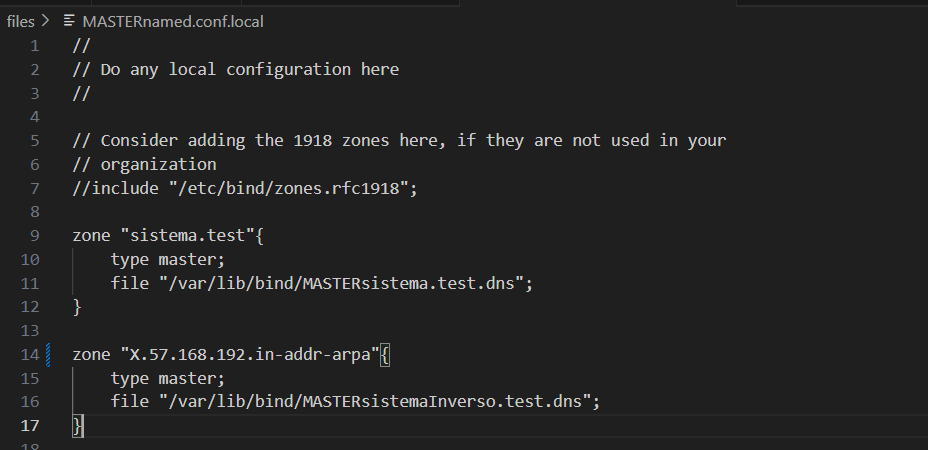
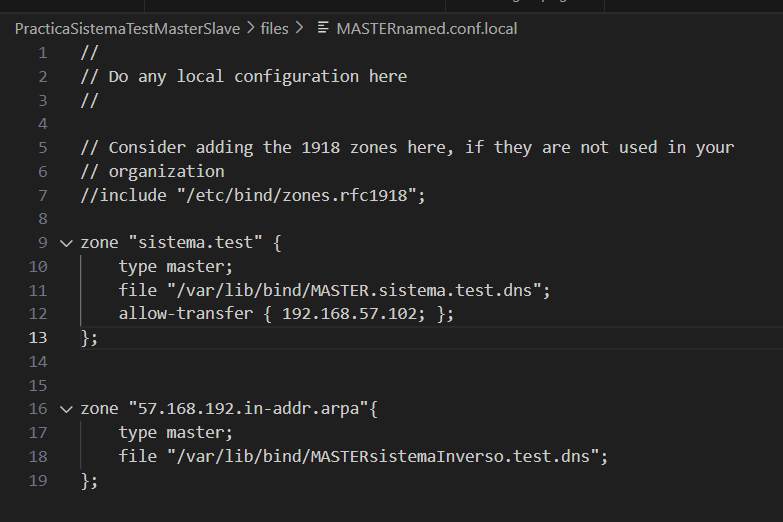
Completamos el archivo README, con las fotos actualizadas y hacemos el commit final

Changed region(s): [[0.0, 0.0311, 0.9502, 0.9644], [0.0, 0.9956, 0.0613, 1.0]]

diff --git a/README.md b/README.md
@@ -1,20 +1,36 @@
 # PracticaSistemaTestMasterSlave
 Practica de despliegue sobre un servidor dns
 
-1.Creamos la estructura de las maquinas en el archivo de configuración de Vagrantfile
-![alt text](/images/image.png)
+1. Creamos la estructura de las maquinas en el archivo de configuración de Vagrantfile
+![alt text](/PracticaSistemaTestMasterSlave/images/image.png)
 
 
-2.Sacamos los archivos necesarios de la maquina tierra a vagrant y creamos una carpeta file con los archivos
-![alt text](/images/image1.png)
+2. Sacamos los archivos necesarios de la maquina tierra a vagrant y creamos una carpeta file con los archivos
+![alt text](/PracticaSistemaTestMasterSlave/images/image1.png)
 
 
-3.Configuramos los archivos que hemos sacado a vagrant anteriormente y los añadimos a la configuracion de las maquinas para  que se puedan copiar y ejecutar correctamente, cambiamos la configuración para que solo se escuche por ipv4, configuramos las acl confiables, configuramos las zonas de la maquina esclava y la maestra, configuramos los dos archivos del servidor
+3. Configuramos los archivos que hemos sacado a vagrant anteriormente
 
-![alt text](/images/image3.png)
-![alt text](/images/image4.png)
-![alt text](/images/images5.png)
-![alt text](/images/image6.png)
-![alt text](/images/image7.png)
-![alt text](/images/image8.png)
-![alt text](/images/image9.png)
+    -Añadimos la configuración necesaria a el archivo vagrantfile para que los archivos que hemos modificado se copien tanto en la maquina  maestro como en la maquina esclava
+ ![alt text](/PracticaSistemaTestMasterSlave/images/image3.png)   
+
+
+    -Añadimos en el archivo named la configuración para que se escuche por ipv4
+![alt text](/PracticaSistemaTestMasterSlave/images/image4.png)
+
+
+    -Añadimos las acl confiables y le decimos que permitimos  la transferencia de archivos de esas acl y además le decimos que no permitimos ipv6
+![alt text](/PracticaSistemaTestMasterSlave/images/image5.png)
+
+
+    -Añadimos las zonas tanto de MASTER como de ESCLAVO
+![alt text](/PracticaSistemaTestMasterSlave/images/image6.png)
+![alt text](/PracticaSistemaTestMasterSlave/images/image7.png)
+
+
+    -Configuramos las zonas tanto la directa como la inversa del servidor
+![alt text](/PracticaSistemaTestMasterSlave/images/image8.png)
+![alt text](/PracticaSistemaTestMasterSlave/images/image9.png)
+
+
+4. Una vez comprobado todos los archivos y hechas las pruebas correspondientes para ver que el servidor funciona correctamente hacemos el commit final y subimos los cambios al repositorio de github
